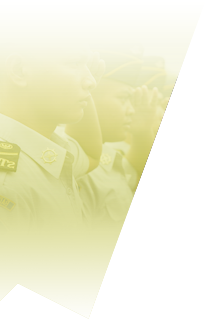
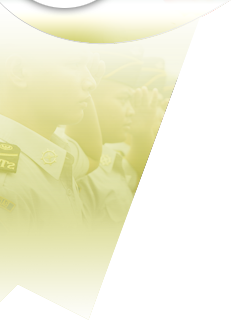
desain diklat v1.2

diff --git a/asset/diklat/css/style.css b/asset/diklat/css/style.css
@@ -24,53 +24,62 @@ html,body {height:100%;width:100%;font:normal 11px Arial, Helvetica, sans-serif;
 html[xmlns] .clearfix {display: block;}
 * html .clearfix {height: 1%;}
 hr {display:inline-block;height:0;width:100%;border-top:solid 1px #ececec;border-bottom:solid 1px #fff;border-left:none;border-right:none;margin:7px 0 10px}
+.left {float:left}
+.right {float:right}
+.tr {text-align:right}
 #container {width:100%;min-height:100%;height:auto !important;height:100%;position:relative;}
 /* TOP */
-#header {background:url(../images/tl_header.jpg) repeat-x left top;height:124px;}
-.header-img {width:100%;height:125px;background:url(../images/img_header.jpg) no-repeat left top;}
+#header {height:124px;}
+.bg_green {background:url(../images/tl_header_green.jpg) repeat-x left top}
+.bg_brown {background:url(../images/tl_header_brown.jpg) repeat-x left top}
+.header-img {width:100%;height:125px;}
+.green {background:url(../images/img_header_green.jpg) no-repeat left top;}
+.brown {background:url(../images/img_header_brown.jpg) no-repeat left top;}
 #title {float:left;margin:10px 0 0 400px;}
-#title h1 {color:#DDEEBD;text-shadow:0 1px 0 #111;font-family:'Jockey One',sans-serif;font-size:24px;font-weight:normal;text-transform:uppercase;}
-#title h2 {color:#A9DC47;text-shadow:0 1px 0 #000;font-size:14px;text-transform:uppercase;}
-#title h3 {color:#000;text-shadow:0 1px 0 #99CC33;font-size:11px}
+#title h1 {color:#fff;text-shadow:0 1px 0 #111;font-family:'Jockey One',sans-serif;font-size:24px;font-weight:normal;text-transform:uppercase;}
+#title h2 {color:#FFFF99;text-shadow:0 1px 0 #000;font-size:14px;text-transform:uppercase;}
+#title h3 {color:#fff;text-shadow:0 1px 0 #111;font-size:11px;}
 h2.heading {color:#999999;text-shadow:0 1px 0 #fff;font-family:'Jockey One',sans-serif;font-weight:normal;font-size:17px}
 h1.heading {color:#999999;text-shadow:0 1px 0 #fff;font-family:'Jockey One',sans-serif;font-weight:normal;font-size:20px;text-transform:capitalize}
 p.text {color:#999;text-shadow:0 1px 0 #fff;font-size:12px;line-height:1.6em;margin:0 0 10px 0;padding:0}
 .hublogo {float:right;margin:10px 20px 0 0;text-align:center}
 .hublogo a{display:block;width:61px;height:70px;background:url(../images/dephub-logo.png) no-repeat top center;}
-.bread {float:left;width:500px;margin:0 0 0 400px;padding-top:18px}
+.bread {float:left;margin:0 0 0 150px;padding-top:18px}
 ul.breadcrumbs {display:block;margin-left:0;overflow: hidden;padding:0}
 ul.breadcrumbs li {float:left;list-style:none;margin:0;padding:0 12px 0 0;}
-ul.breadcrumbs li a, ul.breadcrumbs li span {font-size:11px;color:#555;text-shadow:0 1px 0 #f3f3f3;text-decoration:none;padding-left:12px;text-transform:uppercase;}
+ul.breadcrumbs li a, ul.breadcrumbs li span {font-size:11px;color:#333;text-shadow:0 1px 0 #f3f3f3;text-decoration:none;padding-left:12px;text-transform:uppercase;}
 ul.breadcrumbs li:first-child a, ul.breadcrumbs li:first-child span {padding-left:0;}
 ul.breadcrumbs li:before {color:#336633;content: "/";}
 ul.breadcrumbs li:first-child:before {content: " ";}
-ul.breadcrumbs li.current a {font-weight:bold;color:#336633;text-shadow:0 1px 0 #ccffcc;cursor:default;}
+ul.breadcrumbs li.current a {font-weight:bold;color:#222;text-shadow:0 1px 0 #ccffcc;cursor:default;}
 ul.breadcrumbs li:hover a, ul.breadcrumbs li a:focus {text-decoration:none;}
 ul.breadcrumbs li.current:hover a, ul.breadcrumbs li.current a:focus {text-decoration:none;}
-ul.breadcrumbs li.unavailable a {color:#548954;text-shadow:0 1px 0 #ccffcc}
+ul.breadcrumbs li.unavailable a {color:#ddd;text-shadow:0 1px 0 #ccffcc}
 ul.breadcrumbs li.unavailable:hover a, ul.breadcrumbs li.unavailable a:focus {color:#999999;cursor:default;text-decoration:none;}
-.usr {float:right;margin:20px 20px 0 0;padding:2px 10px;background:#fff;background:rgba(255,255,255,.4);border-radius:4px 4px 0 0;color:#006633;text-shadow:0 1px 0 #fff;font-size:12px}
+.usr {display:inline;float:left;margin:20px 10px 0 0;padding:2px 10px;background:#fff;background:rgba(255,255,255,.4);border-radius:4px 4px 0 0;color:#006633;text-shadow:0 1px 0 #fff;font-size:12px}
 .usr a {font-weight:bold;color:#999933;text-decoration:none}
 .usr a:hover {color:#006633}
 .usr span {display:inline;padding:0 5px 0 0;margin:0 5px 0 0;border-right:dotted 1px #669933}
 #top {width:100%;background:url(../images/tl_topmenu.png) repeat-x left top;height:30px;}
-ul.homout {float:right;margin:0 20px 0 0;list-style-type:none;}
+ul.homout {float:right;margin:11px 20px -15px 0;list-style-type:none;overflow:hidden}
 ul.homout li {float:left;}
-ul.homout li a {display:block;border-right:dotted 1px #CCCC66;padding:5px 15px;font-size:10px;font-weight:bold;text-shadow:0 1px 0 #fff;text-decoration:none;color:#999933;letter-spacing:1px;}
+ul.homout li a {display:block;border-right:dotted 1px #f3f3f3;height:32px;line-height:32px;padding:0 10px;font-size:10px;font-weight:bold;text-shadow:0 1px 0 #fff;text-decoration:none;color:#555;letter-spacing:1px;}
 ul.homout li a:hover {background:#FFCC00;color:#990000;}
-ul.homout li a img {float:left;border:none;margin:0 5px 0 0}
+ul.homout li a img {float:left;border:none;margin:7px 5px 0 0}
 .menu-title {float:left;width:150px;background: url(../images/arrow.gif) no-repeat right center;padding-left:20px;margin:5px 5px 0 0;color:#666633;font-size:14px;font-weight:bold;text-shadow:0 1px 0 #fff;letter-spacing:-1px}
 .submenu {float:left;padding: 0;margin:0;}
 .submenu ul {font-size:13px;font-weight:normal;text-shadow:0 1px 0 #fff;}
 .submenu ul li {display:inline;text-align:center;}
 .submenu ul li a {float:left;color:#999933;padding:6px 10px 5px;text-decoration:none;border-right:dotted 1px #CCCC66;}
-.submenu ul li a:hover {color:#fff;text-shadow:0 1px 1px #333;background:#99CC66;}
+.submenu ul li a:hover {color:#fff;text-shadow:0 1px 1px #333;background:#CCCC66;}
 .submenu .current a {background:#f3f3f3;color:#666633;font-weight:bold;text-shadow:0 1px 0 #fff;}
 /*CONTENT*/
-#content {clear:both;width:100%;height:100%;margin:0;padding:0 0 40px 0;background:url(../images/bg-content.png) no-repeat left top;overflow:hidden}
+#content {clear:both;width:100%;height:100%;margin:0;padding:0 0 40px 0;overflow:hidden}
 #contentwrap {margin:30px 20px 20px;}
+.page-green {background:url(../images/bg-content.png) no-repeat left top;}
+.page-brown {background:url(../images/bg-content-brown.png) no-repeat left top;}
 .wrap_left {width:200px;float:left}
-.wrap_right {width:79%;float:left;margin-left:20px;}
+.wrap_right {width:71%;float:left;margin-left:20px;}
 .bgcontent {background:#f9f9f9;border:solid 1px #ccc;padding:20px 15px;border-radius:4px;box-shadow:0 0 5px rgba(0,0,0,.1) inset}
 .bgtrans {background:#fff;background:rgba(255,255,255,.8);border:solid 1px #ececec;padding:15px 10px;border-radius:4px;}
 /* collapsible menu */
@@ -79,8 +88,8 @@ ul#vmenu a {display:block;text-decoration:none;}
 ul#vmenu li {margin-top:1px;}
 ul#vmenu li a {background:#ececec;background:rgba(236,236,236,.8);font-size:13px;color:#888;text-shadow:0 1px 0 #fff;padding:0.5em;}
 ul#vmenu li a:hover {background:#dedede;}
-ul#vmenu li ul li a {background:#ccc;background:rgba(204,204,204,.7);color:#666;padding-left:20px;}
-ul#vmenu li ul li a:hover,ul#vmenu li ul .current a {background:#f9f9f9;border-left:5px #99CC66 solid;color:#99CC66;padding-left:15px;}
+ul#vmenu li ul li a {background:#ccc;background:rgba(204,204,204,.7) url(../images/arrow-list.gif) no-repeat 5px 50%;color:#666;padding-left:20px;}
+ul#vmenu li ul li a:hover,ul#vmenu li ul .current a,ul#vmenu li ul li a:focus {background:#f9f9f9;border-left:5px #99CC66 solid;color:#99CC66;padding-left:15px;}
 /* table */
 table {background:#FFFFFF;background:rgba(255,255,255,.7);border-collapse:collapse;font-size:12px;text-align:left;max-width:100%;width:100%;border-spacing:0;margin:0;border:0 none;text-shadow:0 1px 0 #fff;}
 table tbody tr:nth-child(2n) {background:#f9f9f9;background:rgba(249,249,249,.8);}
@@ -136,6 +145,13 @@ background: -ms-linear-gradient(top, #ff9b19 0%,#ffc339 100%);
 filter: progid:DXImageTransform.Microsoft.gradient( startColorstr='#ff9b19', endColorstr='#ffc339',GradientType=0 );
 background: linear-gradient(top, #ff9b19 0%,#ffc339 100%);
 border-color:#FF9900;text-shadow: -1px -1px #FF6600;}
+/* control button */
+a.control {background:#ececec;border:solid 1px #ddd;border-radius:4px;-moz-border-radius:4px;-webkit-border-radius:4px;display:inline-block;color:#555555;text-shadow:0 1px 0 #fff;font-size:10px;font-weight:bold;height:24px;line-height:24px;margin:0 2px 0 0;padding-right:5px;text-decoration:none;}
+a:hover.control {color:#669966;background-color:#f9f9f9;border-color:#669966;box-shadow:0 0 3px rgba(0,0,0,.1) inset}
+.add {background:url(../images/ic-add.png) no-repeat 5px 50%;text-indent:25px;display:block;}
+.delete {background:url(../images/ic-delete.png) no-repeat 5px 50%;text-indent:25px;display:block;}
+.edit {background:url(../images/ic-edit.png) no-repeat 5px 50%;text-indent:25px;display:block;}
+.user {background:url(../images/ic-user.png) no-repeat 5px 50%;text-indent:25px;display:block;}
 
 .one { width: 8.33333%!important; }
 .two { width: 16.66667%!important; }
@@ -149,6 +165,18 @@ border-color:#FF9900;text-shadow: -1px -1px #FF6600;}
 .ten { width: 83.33333%!important; }
 .eleven { width: 91.66667%!important; }
 .twelve { width: 100%; }
+
+/* pagination */
+.paging {margin:0;padding:0;}
+.paging ul {border-radius:4px;box-shadow: 0 1px 3px rgba(0, 0, 0, 0.05);display: inline-block;margin:0!important;padding:0;background:#fff;font-size:12px}
+.paging ul > li {display: inline;}
+.paging ul > li > a, .paging ul > li > span {-moz-border-bottom-colors: none;-moz-border-left-colors: none;-moz-border-right-colors: none;-moz-border-top-colors: none;   background-color: #FFFFFF;border-color: #DDDDDD;border-image: none;border-style: solid;border-width: 1px 1px 1px 0;float: left;line-height: 20px;padding: 4px 12px;text-decoration: none;color:#999}
+.paging ul > li > a:hover, .paging ul > .active > a, .paging ul > .active > span {background-color: #F5F5F5;}
+.paging ul > .active > a, .paging ul > .active > span {color: #003366;font-weight:bold;cursor: default;}
+.paging ul > .done > a, .paging ul > .done > span {color: #ccc;cursor: default;background:#fdfdfd}
+.paging ul > .disabled > span, .paging ul > .disabled > a, .paging ul > .disabled > a:hover {background-color: transparent;color: #999999;cursor: default;}
+.paging ul > li:first-child > a, .paging ul > li:first-child > span {border-bottom-left-radius: 4px;border-left-width: 1px;border-top-left-radius: 4px;}
+.paging ul > li:last-child > a, .paging ul > li:last-child > span {border-bottom-right-radius: 4px;border-top-right-radius: 4px;}
 /*FOOTER*/
 #footer {position:absolute;bottom:0;height:25px;width:100%;background:#666;background:rgba(102,102,102,.8);border-top:1px solid #333;color:#ececec;text-shadow:0 1px 0 #111;font-size:11px;font-weight:normal;text-align:center;padding:3px 0 0 0}
 #footer a {color:#f3f3f3;text-decoration:none;font-weight:bold;}

diff --git a/application/diklat/views/layout/header.php b/application/diklat/views/layout/header.php
@@ -5,8 +5,8 @@
 	<title>Sistem Informasi Manajemen SDM Perhubungan - BPSDM Perhubungan - Kementerian Perhubungan RI</title>
 	<meta http-equiv="Content-Type" content="text/html; charset=utf-8" />
 	
-	<link rel="shortcut icon" href="<?=base_url()?>asset/diklat/images/favicon.ico" />
-	<link type="text/css" href="<?=base_url()?>asset/diklat/css/style.css" rel="stylesheet"  />
+	<link rel="shortcut icon" href="<?=base_url()?>asset/diklat/favicon.ico" />
+	<link type="text/css" href="<?=base_url()?>asset/diklat/css/style.css" rel="stylesheet"  type="text/css"  />
 	<script type="text/javascript" src="<?=base_url()?>asset/diklat/js/jquery-min.js" ></script>
 	<script type="text/javascript" src="<?=base_url()?>asset/diklat/js/custom.js" ></script>
 </head>
@@ -14,8 +14,8 @@
 <body>
 <div id="container">
 
-<div id="header"> 
-    <div class="header-img"> 
+<div id="header" class="bg_green"> 
+    <div class="header-img green"> 
       <div id="title">
         <h3>BPSDM Perhubungan - Kementerian Perhubungan RI</h3>
         <h2>Sistem Informasi Manajemen SDM Bidang Transportasi</h2>
@@ -25,7 +25,24 @@
       <div class="hublogo"><a href="http://www.dephub.go.id" title="Kementerian Perhubungan RI" target="_blank"></a></div>
       <div class="clear"></div>
       
-      <div class="usr"><span>Selamat Datang: </span><a href="#"><?=$NAMA_LENGKAP?></a></div>
+      <div class="bread">
+      	<ul class="breadcrumbs">
+          <li><a href="#">Home</a></li>
+          <li><a href="#">Aplikasi title</a></li>
+          <li><span>Edit</span></li>
+          <li class="current"><a href="#">Add</a></li>
+        </ul>
+      </div><!-- end breadcrumbs -->
+      
+      <div class="right">
+          <div class="usr"><span>welcome user</span><a href="#">Lukito Wibowo</a></div>
+            <ul class="homout">
+                <li><a href="#"><img src="<?=base_url()?>asset/diklat/images/icon_home_16x16.png" />HOME</a></li>
+                <li><a href="#"><img src="<?=base_url()?>asset/diklat/images/icon_logout_16x16.png" />LOGOUT</a></li>
+            </ul>
+      </div>
+      
+      <div class="clear"></div>
     </div><!-- end image headers -->
     
 </div><!-- end header -->

diff --git a/application/diklat/views/layout/menu.php b/application/diklat/views/layout/menu.php
@@ -1,33 +1,9 @@
-
-<div id="top"> 
-    
-<div class="menu-title">Basis Data Diklat</div><!-- end page title -->
-<!--
-<div class="submenu">
-    <ul>
-        <li><a href="#">Submenu 1</a>
-		</li>
-        <li><a href="#">Submenu 2</a></li>
-        <li class="current"><a href="#">Submenu 3 Active</a></li>
-        <li><a href="#">Submenu 4</a></li>
-        <li><a href="#">Submenu 5</a></li>
-    </ul>
-</div><!-- end submenu -->
-
-<ul class="homout">
-  <li><a href="#"><img src="images/icon_home_16x16.png" />HOME</a></li>
-  <li><a href="#"><img src="images/icon_logout_16x16.png" />LOGOUT</a></li>
-</ul>
-
-</div><!-- end topmenu -->
-
-  <div id="content">
+  <div id="content" class="page-green">
     <div id="contentwrap">
     	<div class="wrap_left bgtrans">
-			<h2 class="heading">Menu</h2>
-			<hr/>
-			
-			<ul id="vmenu">
+        <h2 class="heading">Basis Data DIKLAT</h2>
+        <hr/>
+        <ul id="vmenu">
 			 <? echo $menuUser ?> 
 			<!--
 				<li>

diff --git a/application/dbmon/views/sdm/sdm_dinas.php b/application/dbmon/views/sdm/sdm_dinas.php
@@ -12,6 +12,16 @@
 	<script class="code" type="text/javascript">
 		$(document).ready(function(){
 			$.jqplot.config.enablePlugins = true;
+<<<<<<< .mine
+			var s1 = [200, 600, 700, 1000, 800,200, 600, 700, 1000, 800,200, 600, 700, 1000, 800,200, 600, 700, 1000, 800,200, 600, 700, 1000, 800,200, 600, 700, 1000, 800, 700, 1000, 800];
+			var ticks = [
+					<?php
+						foreach($stat->result() as $point){
+							echo "'".$point->namaprovin."', ";
+						}
+					?>
+				];
+=======
 			var s1 = [
 				<?php
 					foreach($stat->result() as $point){
@@ -26,6 +36,7 @@
 						}
 					?>
 				];
+>>>>>>> .r52
 			
 			plot1 = $.jqplot('chart1', [s1], {
 				// Only animate if we're not using excanvas (not in IE 7 or IE 8)..

diff --git a/application/dbmon/models/mdl_provinsi.php b/application/dbmon/models/mdl_provinsi.php
@@ -7,10 +7,11 @@ class mdl_provinsi extends CI_Model{
 	
 	function getData($num=0, $offset=0){
 		$this->db->flush_cache();
-		$this->db->select('a.*, (select count(*) from pegawai_dinas where kodeprovin = a.kodeprovin) as jumlah_sdm');
+		$this->db->select('a.*');
 		$this->db->from('provinsi a');
 		//$this->db->limit($num, $offset);
 		$this->db->order_by('a.kodeprovin');
+		
 		return $this->db->get();
 		
 	}

diff --git a/application/diklat/config/database.php b/application/diklat/config/database.php
@@ -69,7 +69,7 @@ $db['default']['stricton'] = FALSE;
 $db['default']['hostname'] = "//LOCALHOST/XE";
 $db['default']['username'] = "BPSDM";
 $db['default']['password'] = "BPSDM";
-$db['default']['database'] = "BPSDM";
+$db['default']['database'] = "BPSDM_LOCAL";
 $db['default']['dbdriver'] = "oci8";
 $db['default']['dbprefix'] = "";
 $db['default']['pconnect'] = TRUE;

diff --git a/application/diklat/views/layout/footer.php b/application/diklat/views/layout/footer.php
@@ -1,5 +1,4 @@
-
-    <div class="clearfix"></div>
+<div class="clearfix"></div>
     </div><!-- end content wrap -->
   </div><!-- end content -->
   
